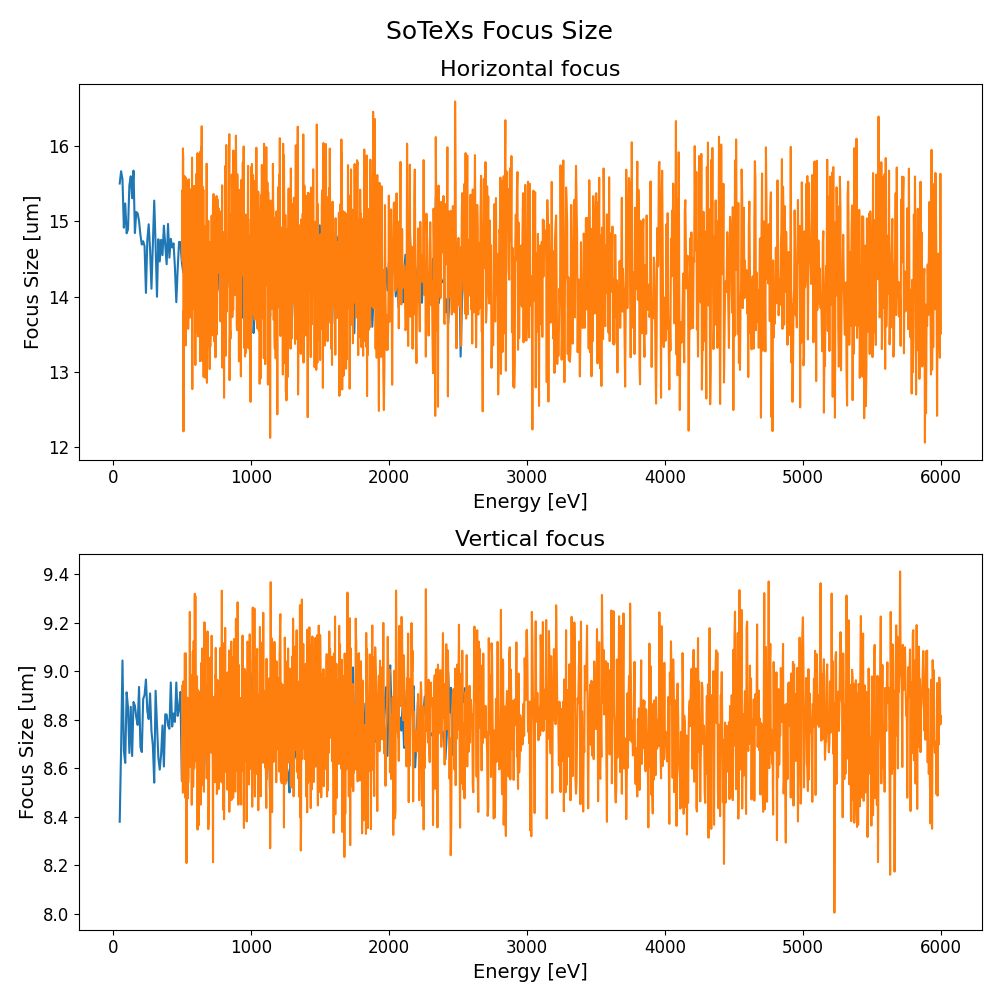
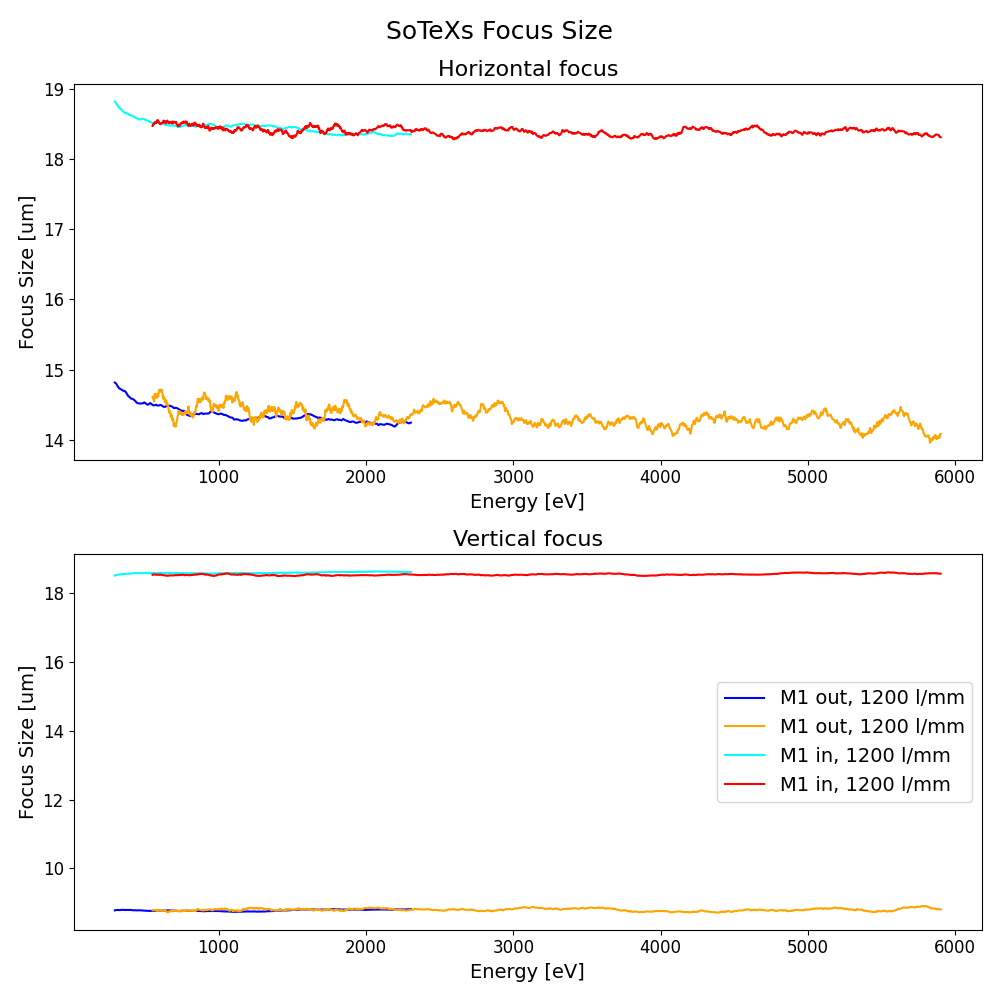
better plot

diff --git a/simulation/4/eval_compare.py b/simulation/4/eval_compare.py
@@ -23,8 +23,10 @@ from params import hb_1200_sim_name_rp, ml_sim_name_rp
 
 from params import beamline_name, undulator_spectra, undulator_file_path
 
+from raypyng.postprocessing import PostProcessAnalyzed
 
-
+p = PostProcessAnalyzed()
+window = 50
 # Set global font sizes
 suptitle_size = 18
 plt.rcParams['axes.titlesize'] = 16
@@ -73,20 +75,22 @@ ax.set_ylabel('Flux [ph/s/0.1A/0.1%bw]')
 
 
 flux_simulation_folder_1200_list = ['RAYPy_Simulation_' + hb_1200_sim_name_flux, 
-                                    'RAYPy_Simulation_' + hb_1200_sim_name_flux[-6]]
+                                    'RAYPy_Simulation_' + hb_1200_sim_name_flux[:-6]]
 rp_simulation_folder_1200_list   = ['RAYPy_Simulation_' + hb_1200_sim_name_rp,
-                                    'RAYPy_Simulation_' + hb_1200_sim_name_rp[-6]]
+                                    'RAYPy_Simulation_' + hb_1200_sim_name_rp[:-6]]
 flux_simulation_folder_ml_list = ['RAYPy_Simulation_' + ml_sim_name_flux,
-                                  'RAYPy_Simulation_' + ml_sim_name_flux[-6]]
+                                  'RAYPy_Simulation_' + ml_sim_name_flux[:-6]]
 rp_simulation_folder_ml_list   = ['RAYPy_Simulation_' + ml_sim_name_rp,
-                                  'RAYPy_Simulation_' + ml_sim_name_rp[-6]]
+                                  'RAYPy_Simulation_' + ml_sim_name_rp[:-6]]
 
-
+color_list = [('blue','orange'), ('cyan', 'red')]
+labels_list = ['M1 out', 'M1 in']
 for ind in range (2):
-    flux_simulation_folder_1200 = [ind]
-    rp_simulation_folder_1200   = [ind]
-    flux_simulation_folder_ml = [ind]
-    rp_simulation_folder_ml   = [ind]
+    flux_simulation_folder_1200 = flux_simulation_folder_1200_list[ind]
+    rp_simulation_folder_1200   = rp_simulation_folder_1200_list[ind]
+    flux_simulation_folder_ml = flux_simulation_folder_ml_list[ind]
+    rp_simulation_folder_ml   = rp_simulation_folder_ml_list[ind]
+
     # loading the data
     oe = 'DetectorAtFocus' + '_RawRaysOutgoing.csv'
     # 1200 l/mm
@@ -104,7 +108,7 @@ for ind in range (2):
     energy1200 = flux1200['CPMU20.photonEnergy']
     perc_flux_1200 = flux1200['PercentageRaysSurvived']
 
-    ax.plot(energy1200,perc_flux_1200, label=f'1200 l/mm' )
+    ax.plot(energy1200,perc_flux_1200, color=color_list[ind][0], label=f'1200 l/mm' )
 
     ax.set_xlabel(r'Energy [eV]')
     ax.set_ylabel('Transmission [%]')
@@ -137,16 +141,17 @@ for ind in range (2):
                                         abs_flux_ml,
                                         undulator_file_path)
 
-    ax.plot(energy_1200, abs_flux_1200, label=f'1200 l/mm' )
-    ax.plot(energy_ml, abs_flux_ml, label=f'ML' )
+    ax.plot(energy_1200, abs_flux_1200,
+            color=color_list[ind][0] )
+    ax.plot(energy_ml, abs_flux_ml,
+            color=color_list[ind][1] )
     if log:
         ax.set_yscale('log')
     ax.set_xlabel('Energy [eV]')
     ax.set_ylabel('Flux [ph/s/0.1A/tbw]')
     ax.grid(which='both', axis='both')
     ax.set_title('Available Flux (absolute)')
-    # ax.legend(loc='upper left', bbox_to_anchor=(1, 1))
-    ax.legend()
+
 
     # BANDWIDTH
     ax = axs[2,0]
@@ -155,11 +160,13 @@ for ind in range (2):
     energy_ml = rpml['CPMU20.photonEnergy']
     bw_ml = rpml['Bandwidth']
 
-    ax.plot(energy_1200,bw_1200)
-    ax.plot(energy_ml, bw_ml)
+    ax.plot(energy_1200,bw_1200,color=color_list[ind][0])
+    ax.plot(p.moving_average(energy_ml, window), p.moving_average(bw_ml, window),color=color_list[ind][1])
     # Calculate the line as 6000 divided by the energy values
-    inv_energy_line = 6000 / energy_ml
-
+    energy_threshold = np.arange(energy1200.iloc[0], energy_ml.iloc[-1])
+    threshold_transmission = energy_threshold/6000
+    if ind==1:
+        ax.plot(energy_threshold, threshold_transmission, linestyle='dashed', color='black')
     # Plot this calculated line on the same axes
     # ax.plot(energy_ml, inv_energy_line, label='6000/Energy', linestyle='--', color='red')
 
@@ -176,21 +183,41 @@ for ind in range (2):
     energy_ml = rpml['CPMU20.photonEnergy']
     bw_ml = rpml['Bandwidth']
 
-    ax.plot(energy_1200,energy_1200/bw_1200)
-    ax.plot(energy_ml,energy_ml/bw_ml)
-    ax.axhline(y=6000, color='r', linestyle='--', label='RP 6000')
+    ax.plot(energy_1200,energy_1200/bw_1200,
+            color=color_list[ind][0], label=f'{labels_list[ind]}, 1200 l/mm')
+    ax.plot(p.moving_average(energy_ml, window),p.moving_average(energy_ml/bw_ml, window),
+            color=color_list[ind][1], label=f'{labels_list[ind]}, 2400 l/mm')
 
     ax.set_xlabel('Energy [eV]')
     ax.set_ylabel('RP [a.u.]')
     ax.set_title('Resolving Power')
     ax.grid(which='both', axis='both')
+    if ind==1:
+        ax.axhline(y=6000, color='k', linestyle='--', label='RP 6000')
+        ax.legend()
 
-    plt.suptitle('SoTeXs', fontsize=suptitle_size)
-    plt.tight_layout()
-    plt.savefig('plot/SoTeXs.png')
+plt.suptitle('SoTeXs', fontsize=suptitle_size)
+plt.tight_layout()
+plt.savefig('plot/SoTeXs.png')
 
-    # plotting Flux and RP
-    fig, (axs) = plt.subplots(2, 1,figsize=(10,10))
+# plotting Flux and RP
+fig, (axs) = plt.subplots(2, 1,figsize=(10,10))
+for ind in range (2):
+    flux_simulation_folder_1200 = flux_simulation_folder_1200_list[ind]
+    rp_simulation_folder_1200   = rp_simulation_folder_1200_list[ind]
+    flux_simulation_folder_ml = flux_simulation_folder_ml_list[ind]
+    rp_simulation_folder_ml   = rp_simulation_folder_ml_list[ind]
+
+    # loading the data
+    oe = 'DetectorAtFocus' + '_RawRaysOutgoing.csv'
+    # 1200 l/mm
+    flux1200 = pd.read_csv(os.path.join(flux_simulation_folder_1200, oe))
+    rp1200 = pd.read_csv(os.path.join(rp_simulation_folder_1200, oe))
+    source_flux1200 = flux1200.drop_duplicates(subset='CPMU20.photonEnergy')[['CPMU20.photonEnergy', 'SourcePhotonFlux']]
+    # ml 
+    fluxml = pd.read_csv(os.path.join(flux_simulation_folder_ml, oe))
+    rpml = pd.read_csv(os.path.join(rp_simulation_folder_ml, oe))
+    source_fluxml = fluxml.drop_duplicates(subset='CPMU20.photonEnergy')[['CPMU20.photonEnergy', 'SourcePhotonFlux']]
 
     # HORIZONTAL FOCUS
     ax = axs[0]
@@ -199,8 +226,10 @@ for ind in range (2):
     energy_ml = rpml['CPMU20.photonEnergy']
     focx_ml = rpml['HorizontalFocusFWHM']
 
-    ax.plot(energy_1200,focx_1200*1000)
-    ax.plot(energy_ml,focx_ml*1000)
+    ax.plot(p.moving_average(energy_1200,window),p.moving_average(focx_1200*1000,window),
+            color=color_list[ind][0], label=f'{labels_list[ind]}, 1200 l/mm')
+    ax.plot(p.moving_average(energy_ml,window),p.moving_average(focx_ml*1000,window),
+            color=color_list[ind][1], label=f'{labels_list[ind]}, 1200 l/mm')
 
     ax.set_xlabel('Energy [eV]')
     ax.set_ylabel('Focus Size [um]')
@@ -213,13 +242,16 @@ for ind in range (2):
     energy_ml = rpml['CPMU20.photonEnergy']
     focy_ml = rpml['VerticalFocusFWHM']
 
-    ax.plot(energy_1200,focy_1200*1000)
-    ax.plot(energy_ml,focy_ml*1000)
+    ax.plot(p.moving_average(energy_1200, window),p.moving_average(focy_1200*1000,window),
+            color=color_list[ind][0], label=f'{labels_list[ind]}, 1200 l/mm')
+    ax.plot(p.moving_average(energy_ml,window),p.moving_average(focy_ml*1000,window),
+            color=color_list[ind][1], label=f'{labels_list[ind]}, 1200 l/mm')
 
     ax.set_xlabel('Energy [eV]')
     ax.set_ylabel('Focus Size [um]')
     ax.set_title('Vertical focus')
-
+    if ind==1:
+        ax.legend()
 plt.suptitle('SoTeXs Focus Size', fontsize=suptitle_size)
 plt.tight_layout()
 plt.savefig('plot/SoTeXs-Focus.png')
@@ -228,38 +260,59 @@ plt.savefig('plot/SoTeXs-Focus.png')
 
 fig, (axs) = plt.subplots(2, 1,figsize=(10,10))
 
+for ind in range (2):
+    flux_simulation_folder_1200 = flux_simulation_folder_1200_list[ind]
+    rp_simulation_folder_1200   = rp_simulation_folder_1200_list[ind]
+    flux_simulation_folder_ml = flux_simulation_folder_ml_list[ind]
+    rp_simulation_folder_ml   = rp_simulation_folder_ml_list[ind]
 
-# PERMIL BANDWIDTH
-ax = axs[0]
-energy_1200 = rp1200['CPMU20.photonEnergy']
-permil_bw_1200 = flux1200['EnergyPerMilPerBw']
-permil_bw_ml = fluxml['EnergyPerMilPerBw']
+    # loading the data
+    oe = 'DetectorAtFocus' + '_RawRaysOutgoing.csv'
+    # 1200 l/mm
+    flux1200 = pd.read_csv(os.path.join(flux_simulation_folder_1200, oe))
+    rp1200 = pd.read_csv(os.path.join(rp_simulation_folder_1200, oe))
+    source_flux1200 = flux1200.drop_duplicates(subset='CPMU20.photonEnergy')[['CPMU20.photonEnergy', 'SourcePhotonFlux']]
+    # ml 
+    fluxml = pd.read_csv(os.path.join(flux_simulation_folder_ml, oe))
+    rpml = pd.read_csv(os.path.join(rp_simulation_folder_ml, oe))
+    source_fluxml = fluxml.drop_duplicates(subset='CPMU20.photonEnergy')[['CPMU20.photonEnergy', 'SourcePhotonFlux']]
+
+    # PERMIL BANDWIDTH
+    ax = axs[0]
+    energy_1200 = rp1200['CPMU20.photonEnergy']
+    permil_bw_1200 = flux1200['EnergyPerMilPerBw']
+    permil_bw_ml = fluxml['EnergyPerMilPerBw']
+
+    ax.plot(p.moving_average(energy_1200/1000,window),p.moving_average(permil_bw_1200,window),
+            color=color_list[ind][0], label=f'{labels_list[ind]}, 1200 l/mm')
+    ax.plot(p.moving_average(energy_ml/1000,window),p.moving_average(permil_bw_ml,window), 
+            color=color_list[ind][1], label=f'{labels_list[ind]}, 1200 l/mm')
+
+    ax.set_xlabel('Energy [keV]')
+    ax.set_ylabel('Energy/1000/bandwidth [a.u.]')
+    ax.set_title('PerMil Transmission')
+    ax.grid(which='both', axis='both')
+    ax.legend()
 
 
-ax.plot(energy_1200/1000,permil_bw_1200, label=f'1200 l/mm')
-ax.plot(energy_ml/1000,permil_bw_ml, label=f'ML')
+    # PERMIL FLUX 
+    ax = axs[1]
+    energy1200 = flux1200['CPMU20.photonEnergy']
+    permil_flux_1200 = flux1200['FluxPerMilPerBwPerc']
+    permil_flux_ml = fluxml['FluxPerMilPerBwPerc']
 
-ax.set_xlabel('Energy [keV]')
-ax.set_ylabel('Energy/1000/bandwidth [a.u.]')
-ax.set_title('PerMil Transmission')
-ax.grid(which='both', axis='both')
-ax.legend()
+    ax.plot(p.moving_average(energy_1200,10),p.moving_average(permil_flux_1200,10), 
+            color=color_list[ind][0], label=f'{labels_list[ind]}, 1200 l/mm')
+    ax.plot(p.moving_average(energy_ml,10),p.moving_average(permil_flux_ml,10),
+            color=color_list[ind][1], label=f'{labels_list[ind]}, 1200 l/mm')
 
-
-# PERMIL FLUX 
-ax = axs[1]
-energy1200 = flux1200['CPMU20.photonEnergy']
-permil_flux_1200 = flux1200['FluxPerMilPerBwPerc']
-permil_flux_ml = fluxml['FluxPerMilPerBwPerc']
-
-ax.plot(energy_1200,permil_flux_1200)
-ax.plot(energy_ml,permil_flux_ml)
-
-ax.set_xlabel(r'Energy [eV]')
-ax.set_ylabel('Flux [ph/s/0.1A/tbw]')
-ax.set_title('Transmission / Per Mil bandwidth')
-ax.grid(which='both', axis='both')
-# ax.set_yscale('log')
+    ax.set_xlabel(r'Energy [eV]')
+    ax.set_ylabel('Flux [ph/s/0.1A/tbw]')
+    ax.set_title('Transmission / Per Mil bandwidth')
+    ax.grid(which='both', axis='both')
+    # ax.set_yscale('log')
+    if ind==1:
+        ax.legend()
 
 plt.suptitle('SoTeXs PerMil', fontsize=suptitle_size)
 plt.tight_layout()
